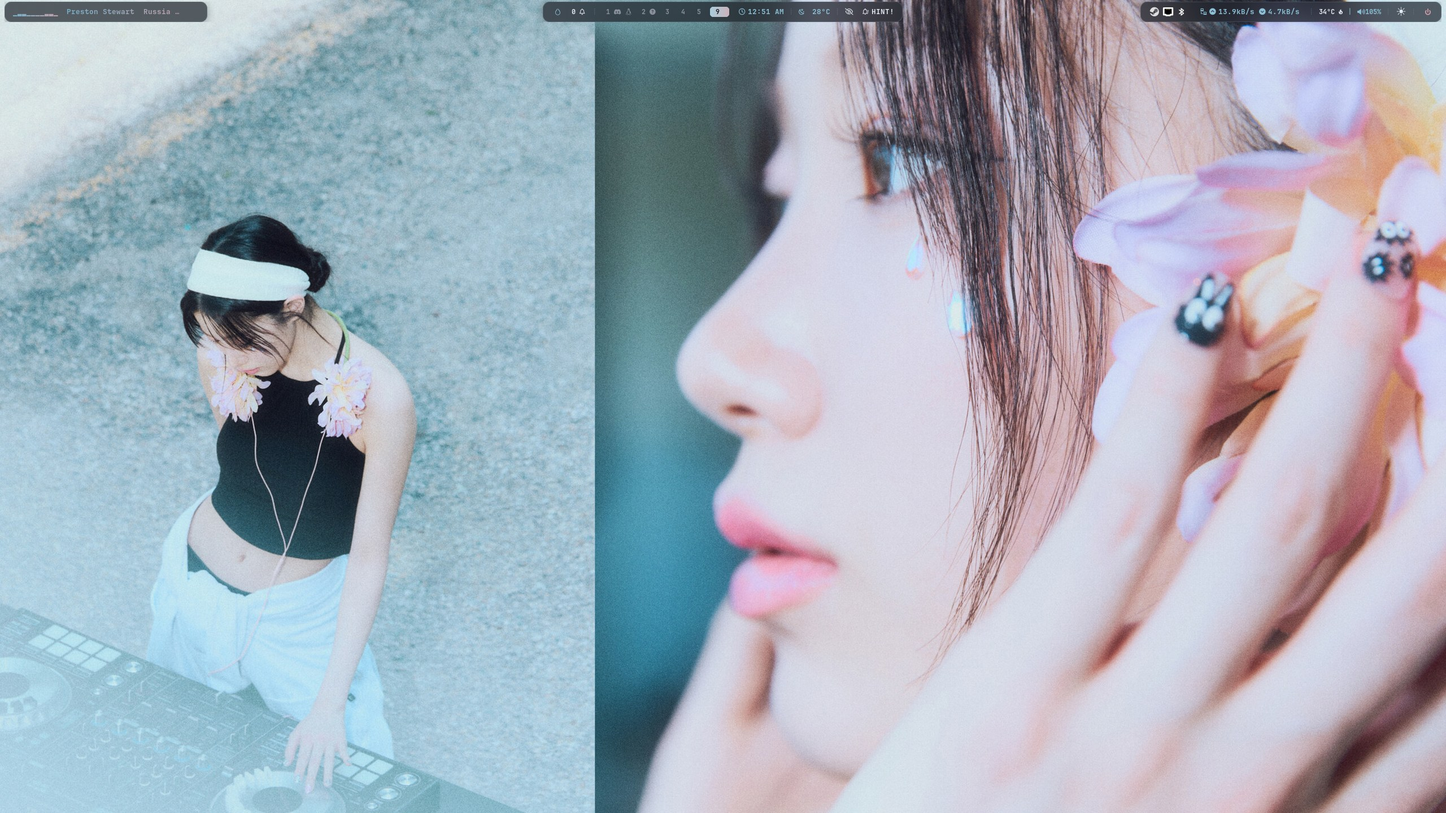
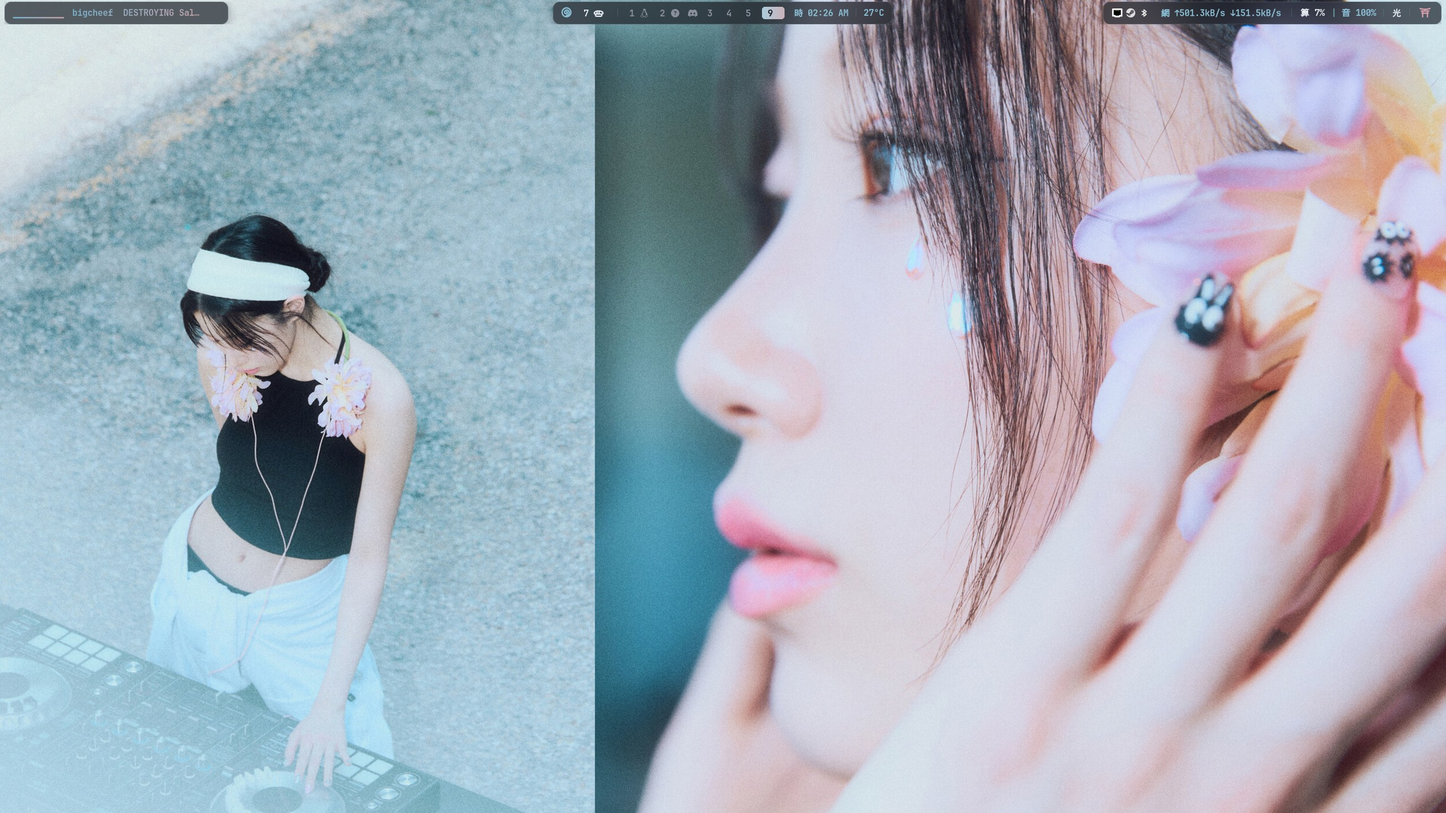
Screenshot: dark mode with the kanji add-on

Changed region(s): [[0.75, 0.0, 1.0, 0.0312], [0.375, 0.0, 0.625, 0.0312], [0.0, 0.0, 0.1562, 0.0312]]

diff --git a/README.md b/README.md
@@ -2,7 +2,7 @@
 
 A frosted, pastel rice for [KooL Hyprland](https://github.com/JaKooLit/Hyprland-Dots) (dots v2.3.20, Hyprland 0.56). It comes in light and dark modes, and one key or a waybar button switches between them. Each mode uses a fixed palette, so changing the wallpaper doesn't recolor everything.
 
-![Airy Aurora Hyprland, dark mode](docs/screenshot.jpg)
+![Airy Aurora Hyprland, dark mode with the kanji add-on](docs/screenshot.jpg)
 
 <sub>Wallpaper not included. It's a photograph whose original source hasn't been identified; if it's your work, please open an issue so it can be credited.</sub>
 
